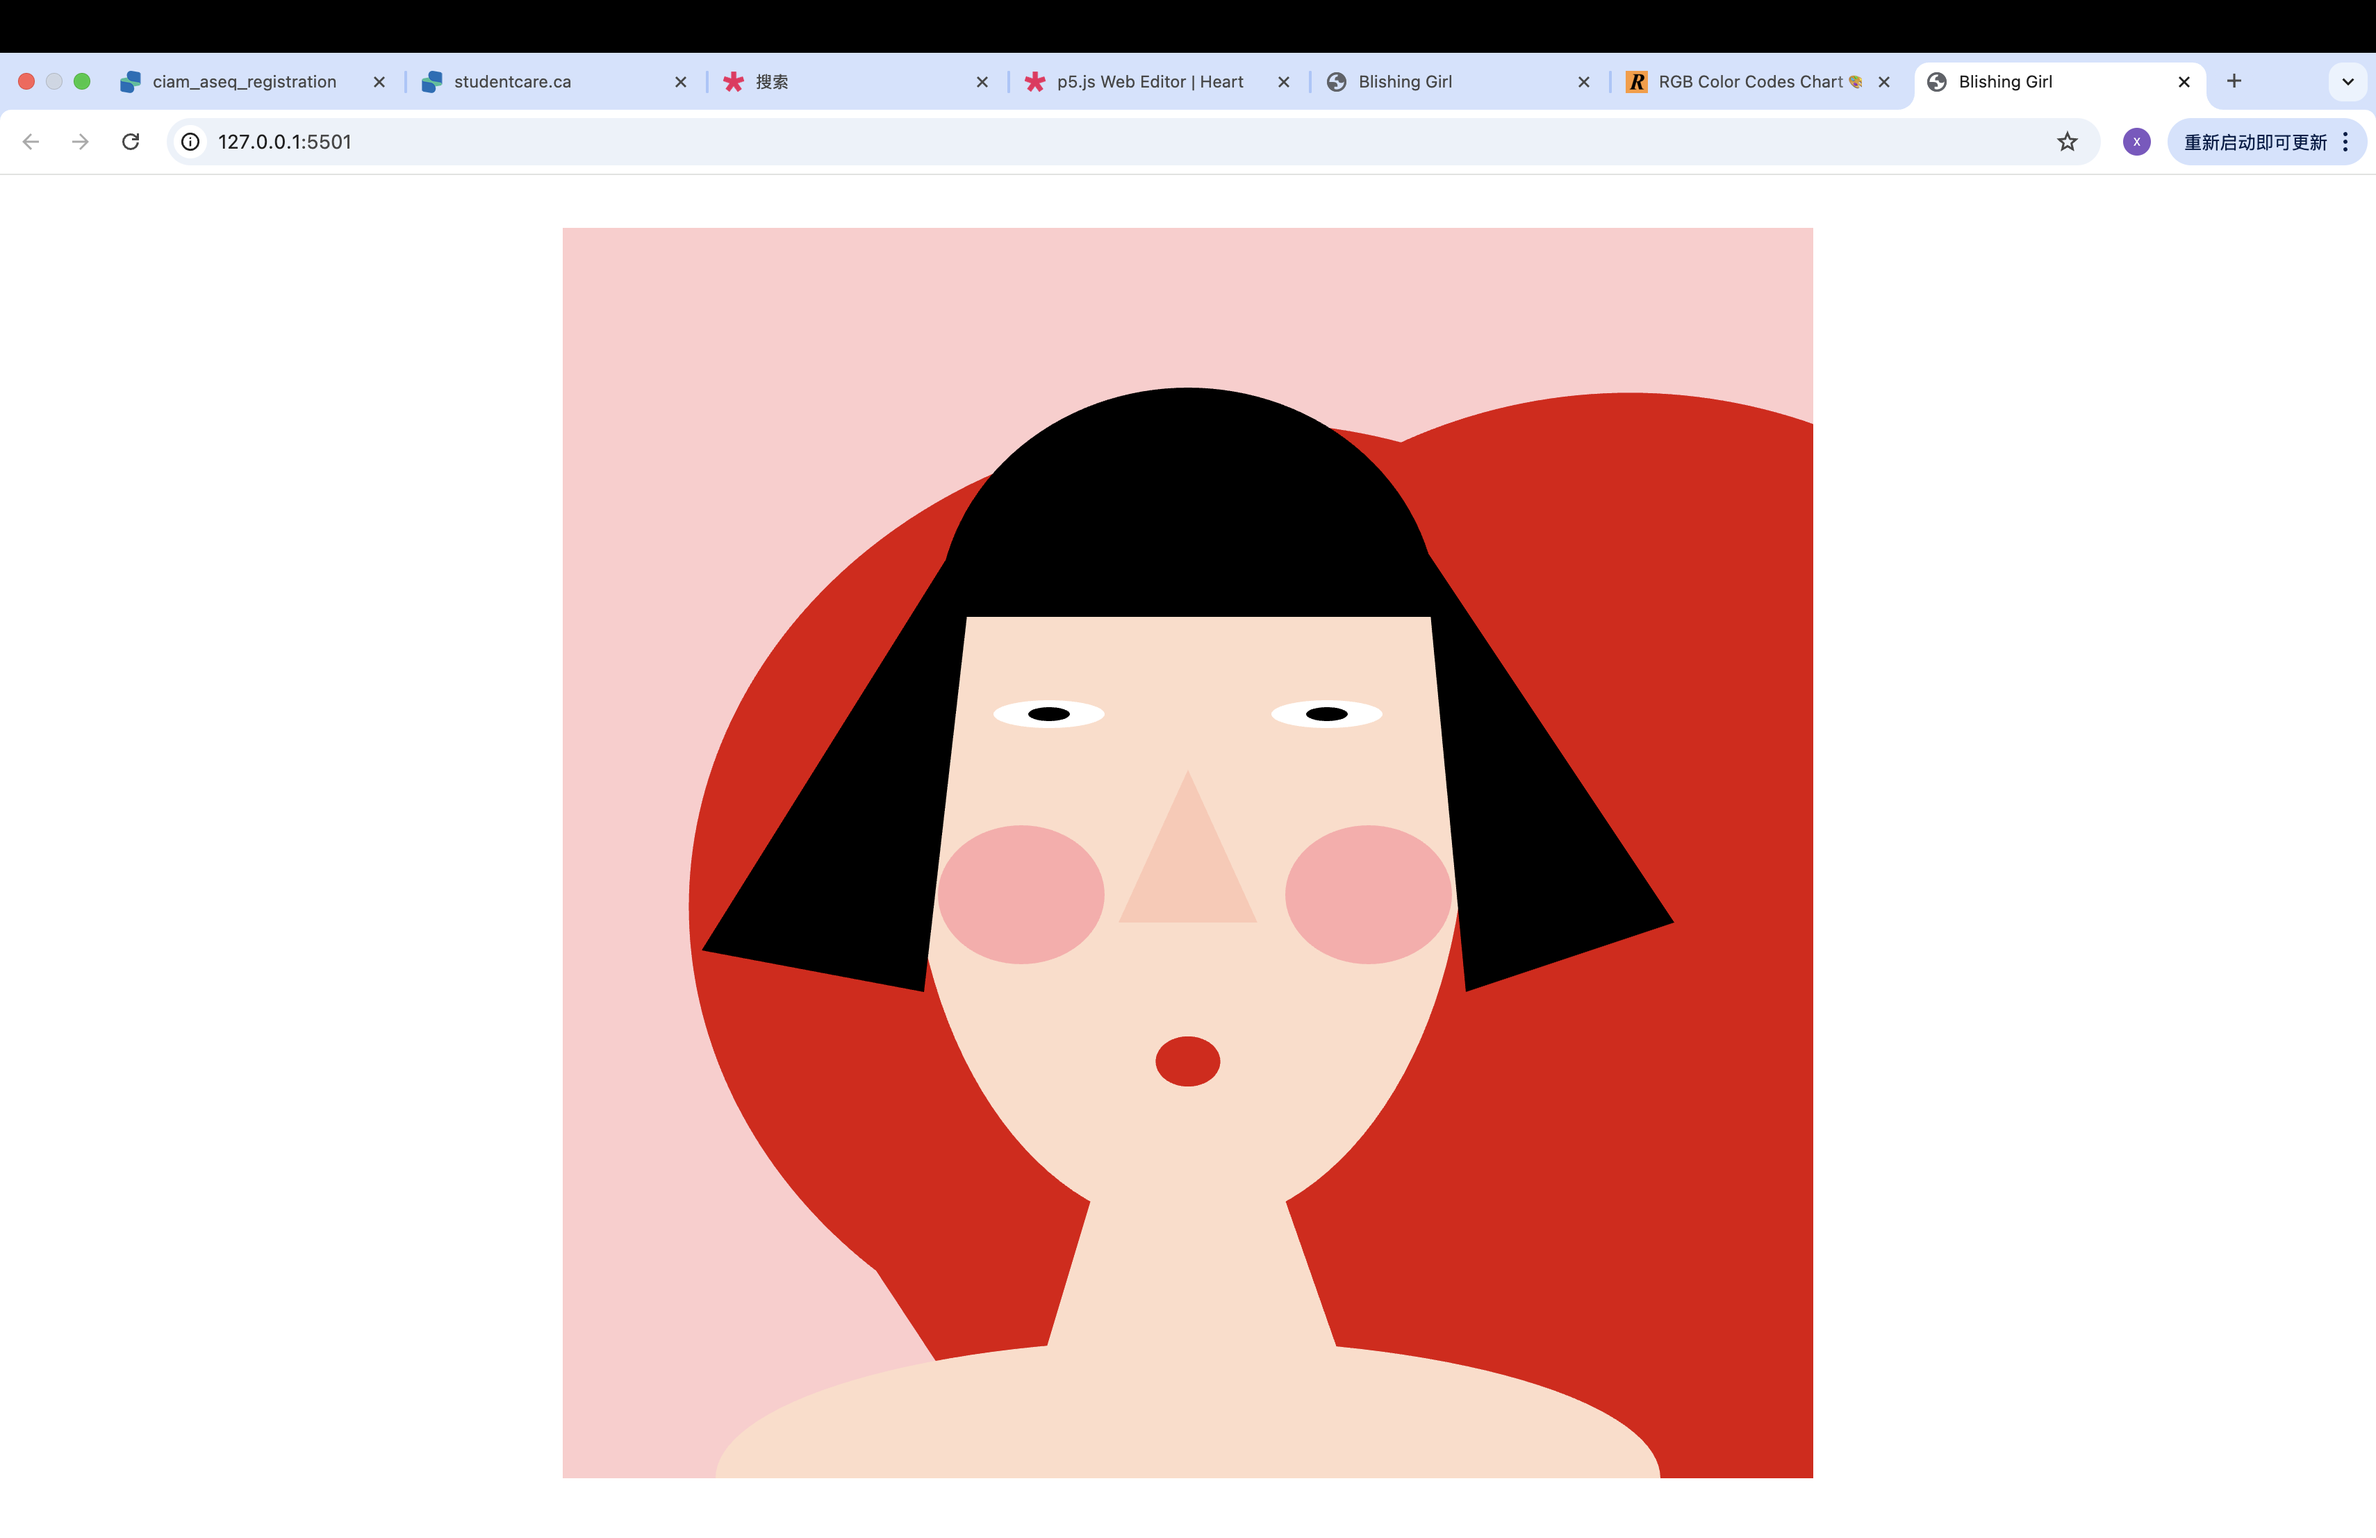
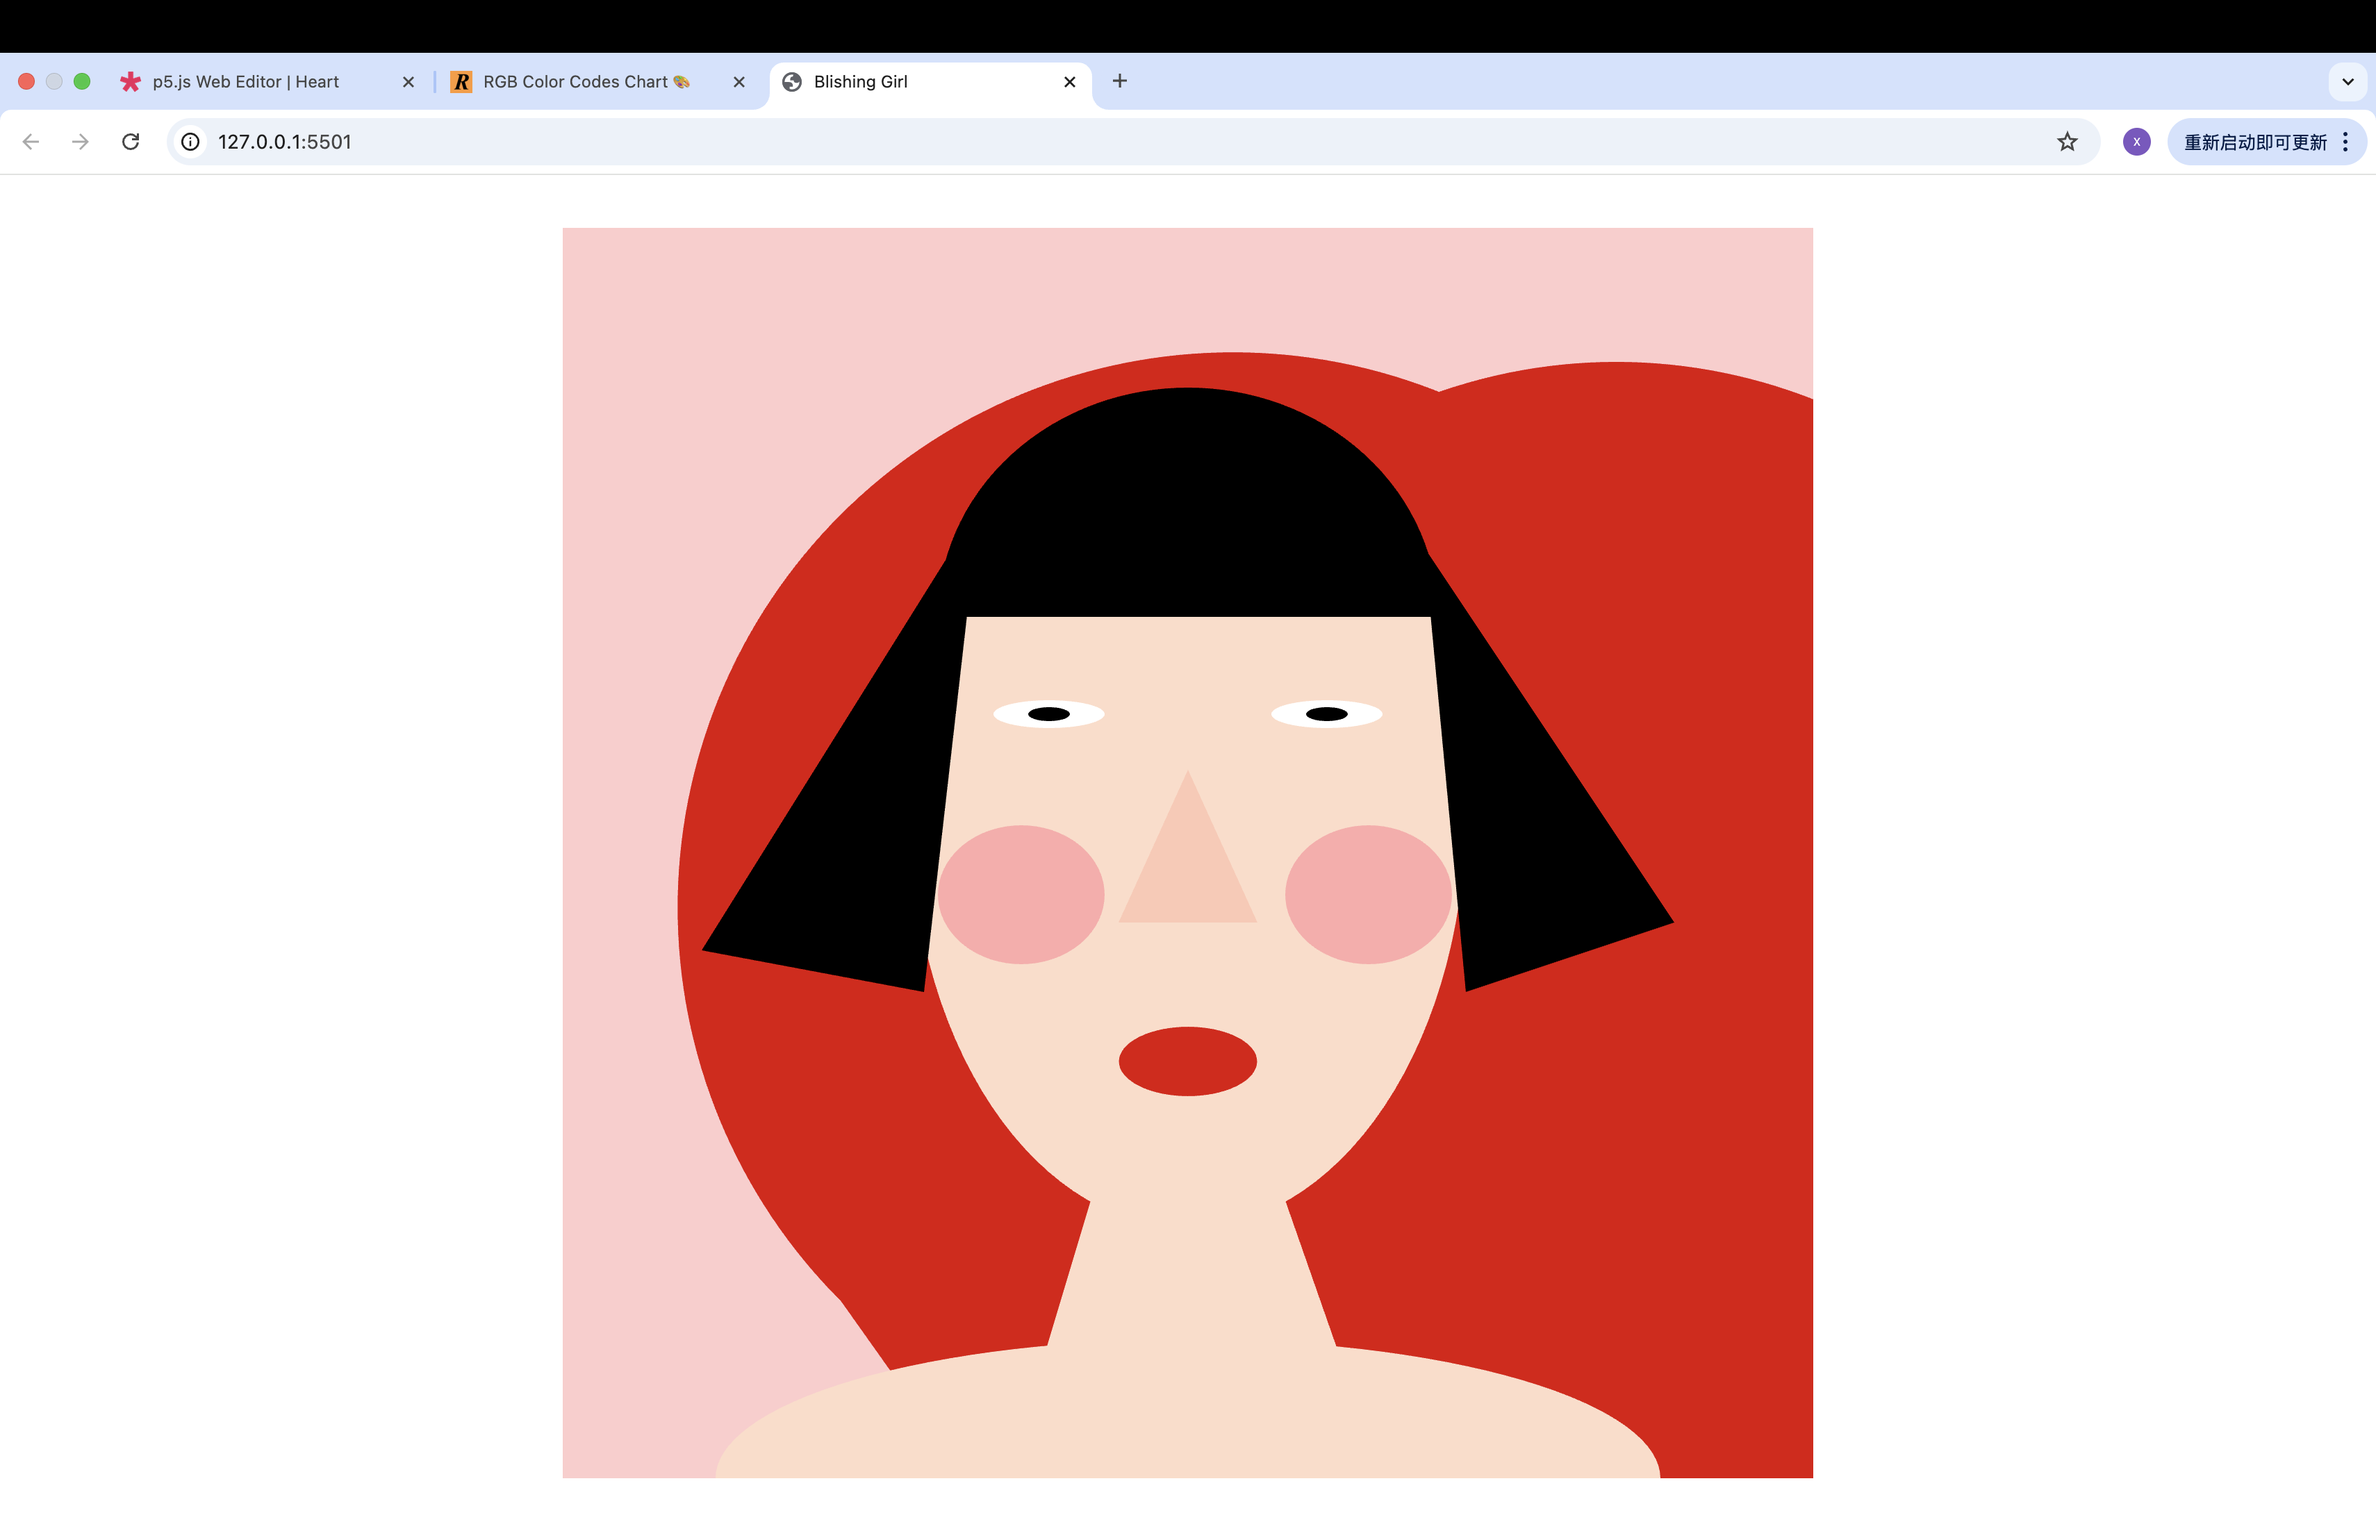
wirted the README and added picture

diff --git a/air-jam/README.md b/air-jam/README.md
@@ -2,37 +2,40 @@
 
 AUTHOR NAME xueyi
 
-[View this project online][GitHub Pages Link]
+[View this project online] GitHub Pages Link : https://github.com/xiaxueyi00-eng/cart253/tree/main/air-jam
+
 ## Description
+This project uses p5.js to create a playful self-portrait.
+ It blends experiments with newly learned functions with concepts covered in class.
+ The face is constructed from simple geometric shapes (triangle, quad, ellipse, and arc), and it is adorned with a heart-shaped background..  
 
-This project is a playful self-portrait made with p5.js.  
-It combines new code with elements adapted from my previous assignment in class.  
-The face is built from simple shapes (ellipse, arc, triangle, quad, rect).  
-
-- The blush changes color gradually and shifts left and right over time (variables changing).  
-- The eyes blink every few seconds using a conditional statement (`if`).  
-- The pupils follow the mouse (`mouseX`), adding interactivity.  
-- I experimented with the `arc()` function for the hair, which I hadn’t used before.  
--For the eyes, I applied the logic we learned in class using `frameCount` and conditional statements. 
-In my code, the eyes are normally open with a height of 80 pixels. 
-Every 40 frames, the height of the eyes changes to 20 pixels for 10 frames, creating a blinking effect. 
-This follows the same principle shown in class (using frame counts to control when something moves or changes), 
-but instead of moving a character, I used it to simulate blinking eyes.
-
+-	Blush
+lerpColor() is used to gradually change the blush color over time.
+-	Blinking eyes
+A conditional (if) with frameCount makes the eyes blink every few seconds.
+Inspired by the Week 3 group assignment.
+-	Interactivity
+The pupils follow the mouse (mouseX) to add interaction.
+-	Hair
+I used the arc() function for the hair, which was new to me.
+-	Heart background
+The heart is made of two circles and one triangle.
+I used scale() with mouseWheel() for the first time to make it dynamically resize.
 ## Screenshot(s)
 
-This bit should have some images of the program running so that the reader has a sense of what it looks like. For example:
+This bit should have some images of the program running so that the reader has a sense of what it looks like. 
 
-> ![Image of a clown face](./assets/images/clown.png)
+![Self-portrait screenshot](./assets/images/portrait.png)
 
 ## Attribution
 
 This bit should attribute any code, assets or other elements used taken from other sources. For example:
 
 > - This project uses [p5.js](https://p5js.org).
-> - This project uses adapted from the previous class assignment exercise.  
-## License
+> - The Week 3 group assignment served as the inspiration for the blinking eyes (using `frameCount` with conditionals) concept.  
+> - Using `scale()` and `mouseWheel()`, dynamic resizing was added to the heart shape, which was inspired by basic geometric combinations (two circles and one triangle).  
 
-This bit should include the license you want to apply to your work. For example:
+
+This bit should include the license you want to apply to your work. 
 
 > This project is licensed under a Creative Commons Attribution ([CC BY 4.0](https://creativecommons.org/licenses/by/4.0/deed.en)) license with the exception of libraries and other components with their own licenses.
